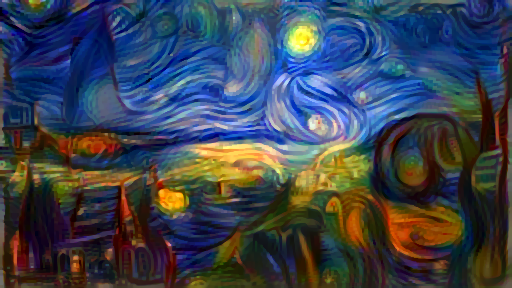
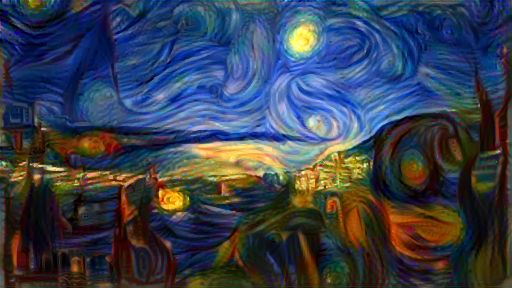
Elias Dargham 10/04/2024 - Tune Layers

diff --git a/config.py b/config.py
@@ -2,7 +2,7 @@ config = {
   'style_image_path': './vangogh.jpg',#r'C:\Users\edarg\Pictures\vangogh.jpg',
   'content_image_path': './content.jpeg',#r'C:\Users\edarg\Pictures\Ehmej.JPEG',
   'content_weight': 2e3,
-  'style_weight': 5e-2,
+  'style_weight': 2.5e-1,
   'total_variation_weight': 30,
   'epochs': 10,
   'steps_per_epoch': 100,

diff --git a/main.py b/main.py
@@ -17,7 +17,9 @@ if __name__ == '__main__':
     'block5_conv3'
   ]
 
-  content_layers=['block5_conv4']
+  content_layers=[
+    'block1_conv1'
+  ]
 
   style_backbone = utils.get_submodel(vgg, style_layers + content_layers)
   style_backbone.summary()
